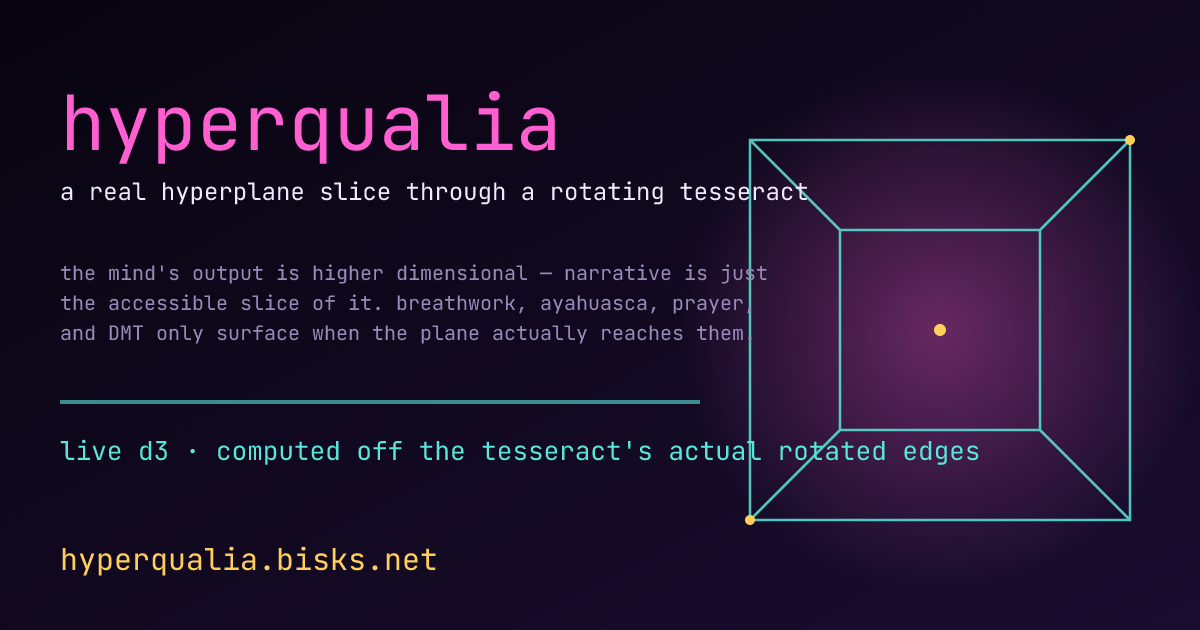
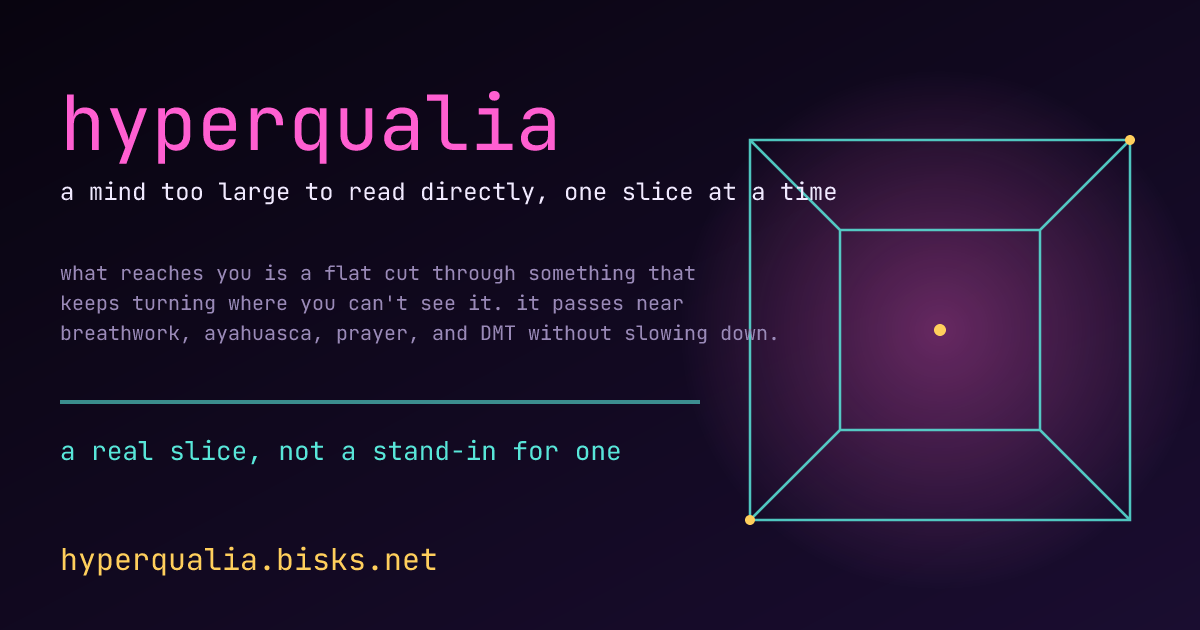
buildthis: hyperqualia (@fubarchitect.com)

Changed region(s): [[0.0308, 0.4222, 0.6475, 0.5429], [0.0308, 0.6937, 0.8325, 0.754], [0.0617, 0.2714, 0.7092, 0.3317]]

diff --git a/sites/hyperqualia/public/index.html b/sites/hyperqualia/public/index.html
@@ -4,11 +4,11 @@
 <meta charset="utf-8" />
 <meta name="viewport" content="width=device-width, initial-scale=1, viewport-fit=cover" />
 <title>hyperqualia — a slice through a higher-dimensional mind</title>
-<meta name="description" content="a rotating tesseract stands in for a higher-dimensional mind. a real hyperplane slice, computed live off its rotated edges, is the readable narrative. a scatter of hyperqualia inducers only enter the slice when the plane actually reaches them." />
+<meta name="description" content="a rotating tesseract standing in for a mind too large to read directly. what reaches you is one flat slice of it at a time — and now and then that slice passes near something you'd recognize: breathwork, ayahuasca, prayer, DMT." />
 
 <meta property="og:type" content="website" />
 <meta property="og:title" content="hyperqualia" />
-<meta property="og:description" content="the mind is higher-dimensional; narrative is just the accessible slice of it. a live d3 hyperplane slice through a rotating tesseract, with breathwork, ayahuasca, prayer, and DMT as points it occasionally cuts through." />
+<meta property="og:description" content="a mind too large to read directly, and one flat slice of it at a time — the only part that ever reaches you. it passes near breathwork, ayahuasca, prayer, and DMT without warning, the way the rest of it always has." />
 <meta property="og:image" content="https://hyperqualia.bisks.net/og.png" />
 <meta property="og:image:width" content="1200" />
 <meta property="og:image:height" content="630" />
@@ -16,7 +16,7 @@
 <meta property="og:url" content="https://hyperqualia.bisks.net/" />
 <meta name="twitter:card" content="summary_large_image" />
 <meta name="twitter:title" content="hyperqualia" />
-<meta name="twitter:description" content="a real hyperplane slice through a rotating tesseract — narrative as the accessible slice of a higher-dimensional mind." />
+<meta name="twitter:description" content="a mind too large to read directly. what you get is one slice of it, passing near breathwork, ayahuasca, prayer, and DMT without ever slowing down for them." />
 <meta name="twitter:image" content="https://hyperqualia.bisks.net/og.png" />
 
 <style>
@@ -57,17 +57,6 @@
   a { color: var(--accent2); }
   .wrap { position: relative; z-index: 1; max-width: 760px; margin: 0 auto; padding: 1.6rem 1rem 3rem; }
 
-  .band {
-    display: inline-block;
-    font-size: 0.64rem;
-    letter-spacing: 0.18em;
-    color: var(--accent3);
-    border: 1px solid var(--accent3);
-    border-radius: 999px;
-    padding: 0.2rem 0.6rem;
-    margin-bottom: 0.9rem;
-    text-transform: uppercase;
-  }
   h1.wordmark {
     font-size: clamp(2rem, 8vw, 2.8rem);
     line-height: 1.02;
@@ -227,9 +216,8 @@
 <body>
 <canvas id="glBackdrop" aria-hidden="true"></canvas>
 <div class="wrap">
-  <span class="band">d3 · glsl · live geometry</span>
   <h1 class="wordmark">hyperqualia</h1>
-  <p class="sub">the mind's real, mind-facing output is probably higher dimensional. narrative is just the accessible slice of it. below: an actual 4D tesseract, tumbling through all six of its rotation planes (drag it, it'll take steering), with a real hyperplane slice computed live off its rotated edges and filled in as the true solid it cuts — plus a scatter of hyperqualia inducers that only enter the slice, and the narrative, when the plane actually reaches them. the murk behind everything is a hand-written GLSL shader: biomechanical veins, an Escher-tiled light source that never agrees with itself, and a scent-like wisp that flares every time the slice actually catches an inducer.</p>
+  <p class="sub">You're already something too large to fit through a sentence. What follows is one flat slice of a shape that keeps turning where you can't see it — drag it, and you're not really steering, just adding your own turn to the ones already there. Now and then the slice passes near a shape you'd know by feel: a long breath, a chant, a fever, a birth. It says hello for a second. Then it's gone again, same as it always was — just briefly on this side of the cut.</p>
 
   <blockquote>
     "the primary mind facing output is probably something higher dimensional with narrative as the like, accessible slice of it." &nbsp;&mdash;&nbsp; "a fair number of religions have practices specifically intended to induce ~hyperqualia, and many of them seem to ~work... nature also appears to repeatedly generate chemicals that induce ~hyperqualia in humans and nonhumans alike."
@@ -239,12 +227,12 @@
   <div class="stage">
     <div class="panel">
       <h2>the mind</h2>
-      <p class="caption">a tesseract tumbling through all six of its rotation planes at once, not just two — drag it to steer the tumble yourself. the bright ring is where the slicing hyperplane currently cuts it.</p>
+      <p class="caption">a shape turning six ways at once — drag it, and you're adding your own turn to the pile. the bright ring is wherever the slice happens to be cutting right now.</p>
       <svg id="ambientSvg" class="scene" viewBox="0 0 380 380"></svg>
     </div>
     <div class="panel">
       <h2>the slice</h2>
-      <p class="caption">the 3D cross-section where w = c(t) — assembled facet-by-facet from the tesseract's own 8 cubic cells, each one filled as the true planar polygon it is, not a fake.</p>
+      <p class="caption">what the plane leaves behind as it passes through — filled in, not left as wire.</p>
       <svg id="sliceSvg" class="scene" viewBox="0 0 380 380">
         <defs>
           <filter id="softGlow" x="-80%" y="-80%" width="260%" height="260%">
@@ -263,7 +251,7 @@
 
   <div class="panel">
     <h2>the narrative</h2>
-    <p class="caption">what's readable right now — only the inducers the slice actually touches make it in.</p>
+    <p class="caption">what's readable, for now. the rest hasn't stopped happening — the slice just isn't there yet.</p>
     <div class="narrative" id="narrative">
       <div class="empty">(the slice hasn't found anything yet)</div>
     </div>
@@ -286,39 +274,39 @@
   <details class="explainer">
     <summary>what am I actually looking at?</summary>
     <p>
-      A tesseract has 16 vertices at every combination of (±1, ±1, ±1, ±1) in x, y, z, w,
-      and 32 edges connecting vertices that differ in exactly one coordinate. Every frame it
-      goes through a genuine 4D rotation composed from all six coordinate-plane rotations —
-      xy, xz, xw, yz, yw, and zw — rather than just the usual two, so the pair of planes that's
-      actually invariant keeps drifting instead of locking into an obviously periodic wobble.
-      Drag the left panel and you're adding your own spin directly into the xw and yz terms,
-      on top of the automatic tumble. The left panel projects the result straight down to 2D
-      (divide by distance-minus-w, then again by distance-minus-z) so you can watch the whole
-      higher-dimensional object move.
+      For anyone who wants the math instead of the mood: a tesseract has 16 vertices at every
+      combination of (±1, ±1, ±1, ±1) in x, y, z, w, and 32 edges connecting vertices that differ
+      in exactly one coordinate. Every frame it goes through a genuine 4D rotation composed from
+      all six coordinate-plane rotations — xy, xz, xw, yz, yw, and zw — rather than just the usual
+      two, so the pair of planes that's actually invariant keeps drifting instead of settling into
+      an obviously periodic wobble. Drag the left panel and you're adding your own spin directly
+      into the xw and yz terms, on top of the automatic tumble. The left panel projects the result
+      straight down to 2D (divide by distance-minus-w, then again by distance-minus-z) so the whole
+      higher-dimensional object stays watchable.
     </p>
     <p>
-      The right panel is a real slice, not a stand-in: a hyperplane w = c(t) sweeps back and
-      forth, and for each of the tesseract's 24 square faces, the two points where that face's
-      edges cross the hyperplane are connected. A tesseract also has 8 cubic cells, and every
-      one of them slices into a flat polygon when a plane passes through it — so those
-      face-segments get regrouped by which cell they belong to, walked into a closed loop, and
-      filled as a solid, glowing facet. What you're looking at is the actual boundary of the
-      3D solid the hyperplane cuts from the tesseract, not its wireframe. Eighteen "hyperqualia
-      inducers" (breathwork, ayahuasca, prayer, endogenous DMT, and the rest) sit at fixed
-      points in the same 4D space and undergo the same rotation; when the sweeping plane's w
-      value passes within reach of one, it appears on a facet and gets a line in the narrative
-      below — the readable, linear residue of something that was never linear to begin with.
+      The right panel is a real slice: a hyperplane w = c(t) sweeps back and forth, and for each of
+      the tesseract's 24 square faces, the two points where that face's edges cross the hyperplane
+      are connected. A tesseract also has 8 cubic cells, and every one of them slices into a flat
+      polygon when a plane passes through it — so those face-segments get regrouped by which cell
+      they belong to, walked into a closed loop, and filled as a solid, glowing facet. What you're
+      looking at is the boundary of the actual 3D solid the plane cuts from the tesseract, filled
+      rather than left as wireframe. Eighteen "hyperqualia inducers" (breathwork, ayahuasca, prayer,
+      endogenous DMT, and the rest) sit at fixed points in the same 4D space and undergo the same
+      rotation; when the sweeping plane's w value passes within reach of one, it appears on a facet
+      and gets a line in the narrative below — the readable, linear residue of something that was
+      never linear to begin with.
     </p>
     <p>
-      The backdrop behind all of it (<code>gl-backdrop.js</code>) is a real fullscreen GLSL
-      fragment shader, not a static image: fbm noise thresholded into thin branching veins for
-      a biomechanical, Giger-ish surface; an interlocking tile grid where every other tile fakes
-      a different light direction, so — Escher's trick, applied to shading instead of geometry —
-      the texture never resolves to one consistent light source; and a domain-warped wisp that
-      diffuses outward from center like a scent, spiking each time the exact slice above actually
-      catches an inducer. It only reads two numbers off the real geometry (the current slice
-      position and an inducer-hit pulse) and never touches the 4D math itself — mood, not a
-      second source of truth.
+      The backdrop (<code>gl-backdrop.js</code>) used to be mood only — a fullscreen GLSL shader
+      reacting to nothing but the slice position and an inducer-hit pulse. It now carries the other
+      four rotation planes as texture. The panels above only have room to number two of the six
+      (xw and yz, the ones you can drag); xy, xz, yw, and zw have no readout of their own, so they
+      show up here instead: xy turns the angle of the Escher-tiled light sources that never agree
+      with each other, xz turns the grain of the biomechanical veins, yw shifts the tile grid
+      itself, and zw turns the underlying warp of the scent-like wisp. Same instantaneous angles
+      the tesseract is actually spinning through — just given somewhere to be seen, since the
+      panels ran out of room for them.
     </p>
   </details>
 

diff --git a/sites/hyperqualia/public/gl-backdrop.js b/sites/hyperqualia/public/gl-backdrop.js
@@ -6,11 +6,18 @@
 // wisps that diffuse outward from center like a scent — flaring whenever the
 // live slice actually catches an inducer, via hqGlPulse() below.
 //
-// Pure mood layer: it never touches the tesseract's real 4D math, so the
-// exact slice + narrative in hyperqualia.js are untouched. hqGlSetSlice/
-// hqGlPulse are the only coupling points, and both are optional — if this
-// file fails to get a WebGL context, hyperqualia.js's calls to them are
-// no-ops and the page falls back to its plain CSS gradient background.
+// It used to be mood only. It now also carries the four rotation planes that
+// have no numeric readout anywhere in the SVG panels (xy, xz, yw, zw — xw and
+// yz are the two you can already see and drag), via hqGlSetRotation() below:
+// xy turns the Escher tiles' fake light directions, xz turns the grain of the
+// vein noise field, yw offsets the tile grid, zw turns the wisp's warp. Same
+// instantaneous angles the tesseract is actually spinning through — this is
+// just somewhere for them to be seen, not a second source of truth. The exact
+// slice + narrative in hyperqualia.js are still untouched by any of it.
+// hqGlSetSlice/hqGlSetRotation/hqGlPulse are the only coupling points, and all
+// are optional — if this file fails to get a WebGL context, hyperqualia.js's
+// calls to them are no-ops and the page falls back to its plain CSS gradient
+// background.
 
 const canvas = document.getElementById("glBackdrop");
 const gl = canvas && (canvas.getContext("webgl") || canvas.getContext("experimental-webgl"));
@@ -32,6 +39,15 @@ if (gl) {
     uniform vec2 uResolution;
     uniform float uSliceW;
     uniform float uPulse;
+    uniform float uRotXY;
+    uniform float uRotXZ;
+    uniform float uRotYW;
+    uniform float uRotZW;
+
+    vec2 rot2(vec2 p, float a) {
+      float c = cos(a), s = sin(a);
+      return vec2(p.x * c - p.y * s, p.x * s + p.y * c);
+    }
 
     float hash(vec2 p) {
       p = fract(p * vec2(123.34, 456.21));
@@ -52,12 +68,17 @@ if (gl) {
     }
     // Escher's trick applied to shading rather than geometry: an interlocking
     // tile grid where alternating tiles fake a different light direction, so
-    // the texture never resolves to one consistent light source.
-    float escherTile(vec2 p) {
+    // the texture never resolves to one consistent light source. rotXY turns
+    // both fake light directions together — the xy rotation plane, which has
+    // no readout of its own anywhere on the page, made visible as a slow turn
+    // of which way the light seems to come from.
+    float escherTile(vec2 p, float rotXY) {
       vec2 g = fract(p) - 0.5;
       vec2 id = floor(p);
       float sel = step(0.5, mod(id.x + id.y, 2.0));
-      vec2 lightDir = mix(vec2(0.7, 0.7), vec2(-0.7, 0.4), sel);
+      vec2 dirA = rot2(vec2(0.7, 0.7), rotXY);
+      vec2 dirB = rot2(vec2(-0.7, 0.4), rotXY);
+      vec2 lightDir = mix(dirA, dirB, sel);
       return dot(normalize(g + 0.0001), lightDir);
     }
 
@@ -67,14 +88,18 @@ if (gl) {
 
       vec3 base = mix(vec3(0.02, 0.01, 0.035), vec3(0.05, 0.035, 0.06), 0.5 + 0.5 * sin(t * 0.05));
 
-      float esch = escherTile(uv * 5.0 + 0.15 * sin(t * 0.07));
+      // yw (no readout of its own) offsets the tile grid itself.
+      float esch = escherTile(uv * 5.0 + 0.15 * sin(t * 0.07) + uRotYW * 0.4, uRotXY);
       vec3 eschColor = mix(vec3(0.03, 0.02, 0.05), vec3(0.1, 0.08, 0.11), 0.5 + 0.5 * esch);
 
-      float veinField = fbm(uv * 3.0 + vec2(0.0, t * 0.03));
+      // xz (no readout of its own) turns the grain of the vein noise field.
+      float veinField = fbm(rot2(uv, uRotXZ) * 3.0 + vec2(0.0, t * 0.03));
       float vein = max(smoothstep(0.48, 0.5, veinField) - smoothstep(0.5, 0.56, veinField), 0.0);
       vec3 veinColor = mix(vec3(0.55, 0.05, 0.35), vec3(0.05, 0.4, 0.4), 0.5 + 0.5 * sin(veinField * 8.0 + t * 0.2));
 
-      vec2 warp = uv + 0.15 * vec2(fbm(uv * 1.5 - t * 0.02), fbm(uv * 1.5 + 7.0 + t * 0.02));
+      // zw (no readout of its own) turns the wisp's underlying warp field.
+      vec2 uvZW = rot2(uv, uRotZW);
+      vec2 warp = uv + 0.15 * vec2(fbm(uvZW * 1.5 - t * 0.02), fbm(uvZW * 1.5 + 7.0 + t * 0.02));
       float wisp = fbm(warp * 2.2 + t * 0.015);
       float dist = length(uv);
       float diffuse = smoothstep(0.9, 0.0, dist) * wisp;
@@ -120,14 +145,25 @@ if (gl) {
     const uResolution = gl.getUniformLocation(prog, "uResolution");
     const uSliceW = gl.getUniformLocation(prog, "uSliceW");
     const uPulse = gl.getUniformLocation(prog, "uPulse");
+    const uRotXY = gl.getUniformLocation(prog, "uRotXY");
+    const uRotXZ = gl.getUniformLocation(prog, "uRotXZ");
+    const uRotYW = gl.getUniformLocation(prog, "uRotYW");
+    const uRotZW = gl.getUniformLocation(prog, "uRotZW");
 
     let sliceW = 0;
     let pulse = 0;
+    let rotXY = 0, rotXZ = 0, rotYW = 0, rotZW = 0;
     let lastMs = null;
 
     // hyperqualia.js calls these every frame / on each inducer hit — the
-    // only coupling between the exact tesseract math and this mood layer.
+    // only coupling between the exact tesseract math and this backdrop.
     window.hqGlSetSlice = (c) => { sliceW = c; };
+    window.hqGlSetRotation = (angles) => {
+      rotXY = angles.xy || 0;
+      rotXZ = angles.xz || 0;
+      rotYW = angles.yw || 0;
+      rotZW = angles.zw || 0;
+    };
     window.hqGlPulse = () => { pulse = 1; };
 
     function resize() {
@@ -150,6 +186,10 @@ if (gl) {
       gl.uniform2f(uResolution, canvas.width, canvas.height);
       gl.uniform1f(uSliceW, sliceW);
       gl.uniform1f(uPulse, pulse);
+      gl.uniform1f(uRotXY, rotXY);
+      gl.uniform1f(uRotXZ, rotXZ);
+      gl.uniform1f(uRotYW, rotYW);
+      gl.uniform1f(uRotZW, rotZW);
       gl.drawArrays(gl.TRIANGLES, 0, 3);
     }
     requestAnimationFrame(draw);

diff --git a/apex/public/index.html b/apex/public/index.html
@@ -2139,7 +2139,7 @@
         <a class="card" href="https://hyperqualia.bisks.net/" data-site="hyperqualia" data-by="fubarchitect.com" data-type="art" data-src="bot">
           <h2>hyperqualia <span class="tag">art</span></h2>
           <p>
-            a real hyperplane slice through a rotating tesseract, tumbling through all six of its 4D rotation planes (drag it to steer), with the slice's 8 cubic cells filled in as true glowing solid facets. now with a hand-written GLSL backdrop — biomechanical veins, an Escher-tiled light source that never agrees with itself, a scent-like wisp that flares on every inducer hit — because @fubarchitect.com asked for it thicc, aromatic, morose, escherish, and gigerish, without losing the exact slice or narrative underneath. standing in for their line that mind-facing output is higher dimensional and narrative is just the accessible slice of it: a scatter of hyperqualia inducers (breathwork, ayahuasca, dance, dmt, prayer...) only enter the slice, and the scrolling narrative line, when the plane actually reaches them.
+            a rotating tesseract standing in for a mind too large to read directly — a real hyperplane slice through it is the only part that ever reaches you, and it occasionally passes near breathwork, ayahuasca, prayer, or DMT. rewritten quieter after @fubarchitect.com asked for less tool-poster, more alan watts; the hand-written GLSL backdrop now also carries the four rotation planes the panels have no readout for.
           </p>
         </a>
         <a class="card" href="https://hypertower.bisks.net/" data-site="hypertower" data-by="goose.art" data-type="game" data-src="bot">

diff --git a/sites/hyperqualia/public/hyperqualia.js b/sites/hyperqualia/public/hyperqualia.js
@@ -134,18 +134,33 @@ const ROT_PLANES = [
 let dragXW = 0;
 let dragYZ = 0;
 
+function planeTheta(p, clock) {
+  let theta = clock * p.omega;
+  if (p.key === "xw") theta += dragXW;
+  if (p.key === "yz") theta += dragYZ;
+  return theta;
+}
+
 function rotate4d(v, clock) {
   const out = v.slice();
   for (const p of ROT_PLANES) {
-    let theta = clock * p.omega;
-    if (p.key === "xw") theta += dragXW;
-    if (p.key === "yz") theta += dragYZ;
+    const theta = planeTheta(p, clock);
     const c = Math.cos(theta), s = Math.sin(theta);
     const a = out[p.i], b = out[p.j];
     out[p.i] = a * c - b * s;
     out[p.j] = a * s + b * c;
   }
   return out;
+}
+
+// The ambient/slice panels only have room to number two of the six rotation
+// planes (xw, yz — the ones drag steers). The other four have no on-page
+// readout, so the GLSL backdrop uses them as texture instead; see
+// gl-backdrop.js's uRotXY/uRotXZ/uRotYW/uRotZW.
+function currentAngles(clock) {
+  const angles = {};
+  for (const p of ROT_PLANES) angles[p.key] = planeTheta(p, clock);
+  return angles;
 }
 
 const W_DIST = 3;
@@ -292,6 +307,7 @@ function frame(nowMs) {
   const c = SLICE_AMP * Math.sin(clock * SWEEP_BASE);
   latestC = c;
   if (window.hqGlSetSlice) window.hqGlSetSlice(c);
+  if (window.hqGlSetRotation) window.hqGlSetRotation(currentAngles(clock));
 
   const rotatedVerts = BASE_VERTS.map((v) => rotate4d(v, clock));
   const rotatedInducers = INDUCERS.map((ind) => rotate4d(ind.coord, clock));
